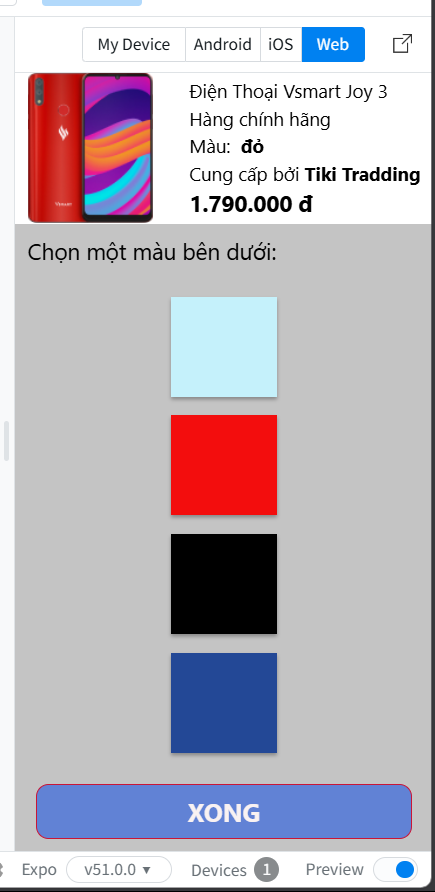
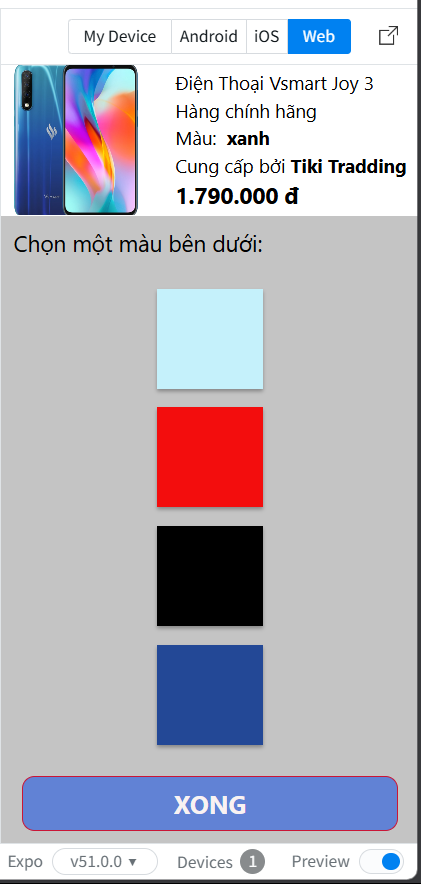
update Screen 03 and swap Screen 02 & Screen 03, change file

diff --git a/Screen02.js b/Screen02.js
@@ -1,0 +1,113 @@
+import { Text,View,Image,TouchableOpacity,StyleSheet,Pressable } from 'react-native';
+import {SetStateAction, useState} from 'react'
+
+export default function Screen02({navigation}) {
+  return (
+    <View style={styles.container}>
+      <View style={styles.productCard}>
+        <View>
+          <Image source={require('./assets/vs_blue.png')}
+                style={{width:100,height:120}}/>
+        </View>
+        <View style={styles.productInfo}>
+          <Text style={styles.productText}>Điện Thoại Vsmart Joy 3</Text>
+          <Text style={styles.productText}>Hàng chính hãng</Text>
+          <Text style={styles.productText}>Màu: <Text style={styles.fontText}> xanh </Text> </Text>
+          <Text style={styles.productText}>Cung cấp bởi <Text style={styles.fontText}>Tiki Tradding</Text></Text>
+          <Text style={[styles.productText,{fontWeight:'700',fontSize:18}]}>1.790.000 đ</Text>
+        </View>
+      </View>
+      <View style={styles.content}>
+        <Text style={styles.chooseColorText}>Chọn một màu bên dưới:</Text>
+        <View style={styles.chooseColor}>
+          <Pressable style={[styles.button,{backgroundColor:'#C5F1FB'}]}>
+          </Pressable>
+          <Pressable style={[styles.button,{backgroundColor:'#F30D0D'}]}
+          onPress={() => navigation.navigate("Screen03")}>      
+          </Pressable>
+          <Pressable style={[styles.button,{backgroundColor:'#000000'}]}>    
+          </Pressable>
+          <Pressable style={[styles.button,{backgroundColor:'#234896'}]}>    
+          </Pressable>
+        </View>
+        <View style={styles.footer}>
+          <TouchableOpacity style={styles.btn}>
+            <Text style={styles.buttonText}>XONG</Text>
+          </TouchableOpacity>
+        </View>
+      </View>
+    </View>
+  )
+}
+
+const styles = StyleSheet.create({
+  container:{
+    flex:1,
+    justifyContent:'center',
+  },
+  productCard:{
+    flex:1,
+    flexDirection:'row',
+    justifyContent:'space-between',
+    paddingHorizontal: 10,
+    backgroundColor:'#FFFFFF'
+  },
+  productInfo:{
+    justifyContent:'center',
+    gap: 2,
+
+  },
+  productText:{
+    fontSize:15,
+    fontWeight:'400'
+  },
+  content:{
+    flex:4,
+    backgroundColor:"#C4C4C4",
+    justifyContent:'space-between',
+    paddingVertical:10,
+  },
+  chooseColorText:{
+    fontSize:18,
+    fontWeight:'400',
+    paddingLeft:10,
+  },
+  button:{
+    alignItems:'center',
+    justifyContent:'center',
+    height:80,
+    width:85,
+    shadowColor: '#000',
+    shadowOffset: { width: 0, height: 2 },
+    shadowOpacity: 0.3,
+    shadowRadius: 3,
+    elevation: 5,
+  },
+  chooseColor:{
+    alignItems:'center',
+    justifyContent:'space-between',
+    gap: 15,
+  },
+  btn:{
+    backgroundColor:'#1952E294',
+    borderRadius:10,
+    borderWidth:1,
+    width:'90%',
+    borderColor:'#CA1536',
+    alignItems: 'center',
+    justifyContent:'center',
+    height:44,
+  },
+  buttonText:{
+    fontSize:20,
+    fontWeight:'700',
+    color:'#F9F2F2',
+  },
+  footer:{
+    alignItems:'center',
+    justifyContent:'center'
+  },
+  fontText:{
+    fontWeight:'700'
+  }
+})

diff --git a/Screen01.js b/Screen01.js
@@ -4,7 +4,8 @@ import AntDesign from '@expo/vector-icons/AntDesign';
 import Icon from 'react-native-vector-icons/FontAwesome';
 import {useState} from 'react'
 
-export default function Screen01() {
+
+function Screen01({navigation}) {
  const [rating, setRating] = useState(0); 
   
   const renderStars = () => {
@@ -46,9 +47,11 @@ export default function Screen01() {
             <AntDesign name="questioncircleo" size={20} color="black"  />
           </View>
           <View style={{alignItems:'center',paddingTop:10}}>
-            <TouchableOpacity style={styles.colorButton}> 
+            <TouchableOpacity style={styles.colorButton}
+            onPress={() => navigation.navigate("Screen02")}> 
               <Text style={styles.nameProduct}>4 MÀU-CHỌN MÀU</Text>
               <AntDesign name="right" size={10} color="black" />
+              
             </TouchableOpacity>
           </View>
         </View>
@@ -140,4 +143,6 @@ const styles = StyleSheet.create({
     fontSize:15,
     fontWeight:'400'
   },
-})
+});
+
+export default Screen01;

diff --git a/App.js b/App.js
@@ -1,0 +1,18 @@
+import { NavigationContainer } from "@react-navigation/native";
+import { createNativeStackNavigator } from "@react-navigation/native-stack";
+import Screen01 from "./Screen01";
+import Screen02 from "./Screen02";
+import Screen03 from "./Screen03";
+const Stack = createNativeStackNavigator();
+export default function App() {
+  
+  return (
+    <NavigationContainer>
+      <Stack.Navigator initialRouteName="Screen01">
+        <Stack.Screen name="Screen01" component={Screen01} options={{headerShown:false}} />
+        <Stack.Screen name="Screen02" component={Screen02} options={{headerShown:false}} />
+        <Stack.Screen name="Screen03" component={Screen03} options={{headerShown:false}} />
+      </Stack.Navigator>
+    </NavigationContainer>
+  )
+}

diff --git a/Screen03.js b/Screen03.js
@@ -1,7 +1,7 @@
 import { Text,View,Image,TouchableOpacity,StyleSheet,Pressable } from 'react-native';
 import {SetStateAction, useState} from 'react'
 
-export default function Screen02() {
+export default function Screen03({navigation}) {
   return (
     <View style={styles.container}>
       <View style={styles.productCard}>
@@ -49,6 +49,7 @@ const styles = StyleSheet.create({
     flexDirection:'row',
     justifyContent:'space-between',
     paddingHorizontal: 10,
+    backgroundColor:'#FFFFFF'
   },
   productInfo:{
     justifyContent:'center',
